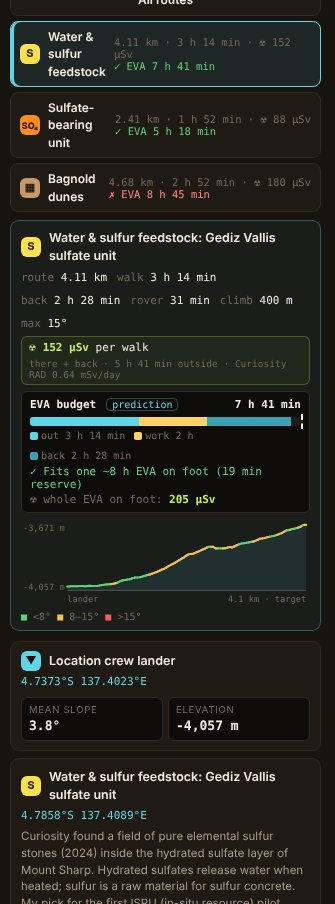
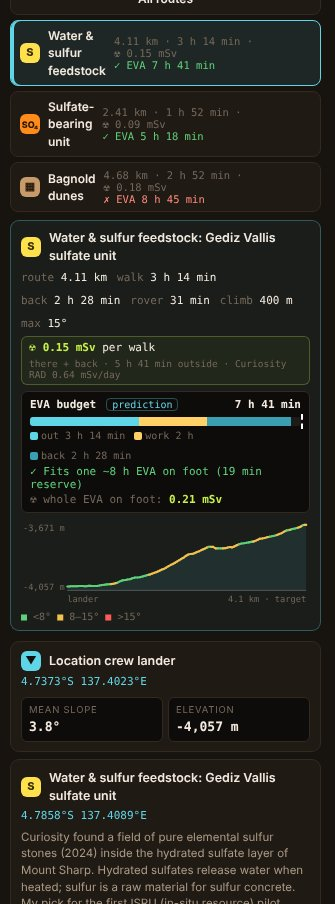
Radiation: one unit everywhere (mSv)
Doses are now shown in mSv with two decimals, the same unit as the Curiosity
RAD source value (0.64 mSv/day), the docs and the presentation. Each value
stays on one line with its unit. Route-card screenshot retaken.

diff --git a/index.html b/index.html
@@ -499,7 +499,7 @@ let M_lz=null;
 const landerHtml=Lz=>`<h4>Location crew lander <span class="pred">prediction</span></h4>${C(Lz.lat,Lz.lon)}<p>The best landing cell in this area: lowest mean slope, smoothest HiRISE surface, low elevation, at a safe distance from targets.</p><div class="kv"><div><small>mean slope (400 m)</small><b>${Lz.slope}°</b></div><div><small>elevation</small><b>${Lz.elev.toLocaleString('en')} m</b></div><div><small>surface roughness</small><b>smoothest ${Math.max(1,Lz.rough_pct)}%</b></div><div><small>zone radius</small><b>300 m</b></div></div>`;
 /* radiation: Curiosity RAD, mean GCR dose equivalent rate on the surface in Gale crater, 0.64 ± 0.12 mSv/day (Hassler et al. 2014, Science 343, 1244797) */
 const RAD={mSvDay:0.64,err:0.12};const dose=h=>h*RAD.mSvDay/24;
-const fmtDose=mSv=>mSv<1?`${Math.round(mSv*1000)} µSv`:`${mSv.toFixed(2)} mSv`;
+const fmtDose=mSv=>`${mSv.toFixed(2)}&nbsp;mSv`;
 const walkRT=r=>r.walk_h+(r.back_h??r.walk_h);
 const radHtml=r=>`<div class="rad" title="Galactic cosmic rays only, as measured by Curiosity RAD at Gale (Hassler et al. 2014). A spacesuit adds almost no shielding against them. Solar particle events are not included."><span class="ri">☢</span><span><b>${fmtDose(dose(walkRT(r)))}</b> per walk</span><span class="rs">there + back · ${hrs(walkRT(r))} outside · Curiosity RAD ${RAD.mSvDay} mSv/day</span></div>`;
 /* EVA budget (prediction): walk out + work on site + walk back, against one ~8 h EVA (NASA xEVA / Mars suit target: EVAs of up to 8 h) */
@@ -537,7 +537,7 @@ function panel(){const el=$('#panel');
     <div class="sec"><h3>NASA mission route</h3><div class="tl">${evs}</div></div>
     ${view==='curiosity'?`<div class="sec"><h3>NASA's planned route</h3><img class="nimg" src="pov/curiosity_proposed_path.jpg" alt="Curiosity's proposed path up Mount Sharp"><div class="intro">NASA/JPL's proposed path up Mount Sharp (2019, HiRISE + CRISM + CTX + HRSC), seen in 3D looking south. The orange line on the map is where Curiosity actually drove; white dots on the map are rover-eye raw images.</div><a class="nl" href="https://science.nasa.gov/resource/curiositys-proposed-path-up-mount-sharp/" target="_blank">Curiosity's proposed path (NASA) ↗</a></div>`:''}
     ${view==='perseverance'?`<div class="sec"><h3>Rover's-eye view</h3><div class="intro">White dots on the map open a real Perseverance raw image taken on the sol of each event (Hazcam, Navcam, Mastcam-Z).</div><a class="nl" href="https://mars.nasa.gov/mars2020/multimedia/raw-images/" target="_blank">Perseverance raw images gallery ↗</a></div>`:''}
-    <div class="sec"><h3>Astronaut exploration plan <span class="pred">prediction</span></h3>${RTS.length?`<div class="rsel-h">Safest routes · ${RTS.length} · tap to select</div><div id="wsel"><span>Work on site</span>${[1,2,3,4].map(h=>`<button data-w="${h}" class="${h===WORK?'on':''}">${h} h</button>`).join('')}</div><div id="rsel"><button data-r="-1" class="on">All routes</button>${RTS.map((r,i)=>`<button data-r="${i}"><span class="ico k-${r.x.kind}">${KI[r.x.kind]}</span><span class="rn">${r.x.title.split(':')[0]}</span><small>${r.x.route.km} km · ${hrs(r.x.route.walk_h)} · ☢ ${fmtDose(dose(walkRT(r.x.route)))}<br><span class="${evaT(r.x.route)<=EVA_H?'fit':'nofit'}">${evaT(r.x.route)<=EVA_H?'✓':'✗'} EVA ${hrs(evaT(r.x.route))}</span></small></button>`).join('')}</div><div id="rinfo"><p class="rhint">Pick a route above, or click a dashed blue line on the map.</p></div>`:''}
+    <div class="sec"><h3>Astronaut exploration plan <span class="pred">prediction</span></h3>${RTS.length?`<div class="rsel-h">Safest routes · ${RTS.length} · tap to select</div><div id="wsel"><span>Work on site</span>${[1,2,3,4].map(h=>`<button data-w="${h}" class="${h===WORK?'on':''}">${h} h</button>`).join('')}</div><div id="rsel"><button data-r="-1" class="on">All routes</button>${RTS.map((r,i)=>`<button data-r="${i}"><span class="ico k-${r.x.kind}">${KI[r.x.kind]}</span><span class="rn">${r.x.title.split(':')[0]}</span><small>${r.x.route.km} km · ${hrs(r.x.route.walk_h)} · ☢&nbsp;${fmtDose(dose(walkRT(r.x.route)))}<br><span class="${evaT(r.x.route)<=EVA_H?'fit':'nofit'}">${evaT(r.x.route)<=EVA_H?'✓':'✗'} EVA ${hrs(evaT(r.x.route))}</span></small></button>`).join('')}</div><div id="rinfo"><p class="rhint">Pick a route above, or click a dashed blue line on the map.</p></div>`:''}
       <div class="site" data-ll="${Lz.lat},${Lz.lon}"><div class="t"><span class="ico k-lander">▼</span>Location crew lander</div>${C(Lz.lat,Lz.lon)}<div class="kv"><div><small>mean slope</small><b>${Lz.slope}°</b></div><div><small>elevation</small><b>${Lz.elev.toLocaleString('en')} m</b></div></div></div>
       ${sites}</div>`}
   el.querySelectorAll('[data-go]').forEach(c=>c.onclick=()=>go(c.dataset.go));
